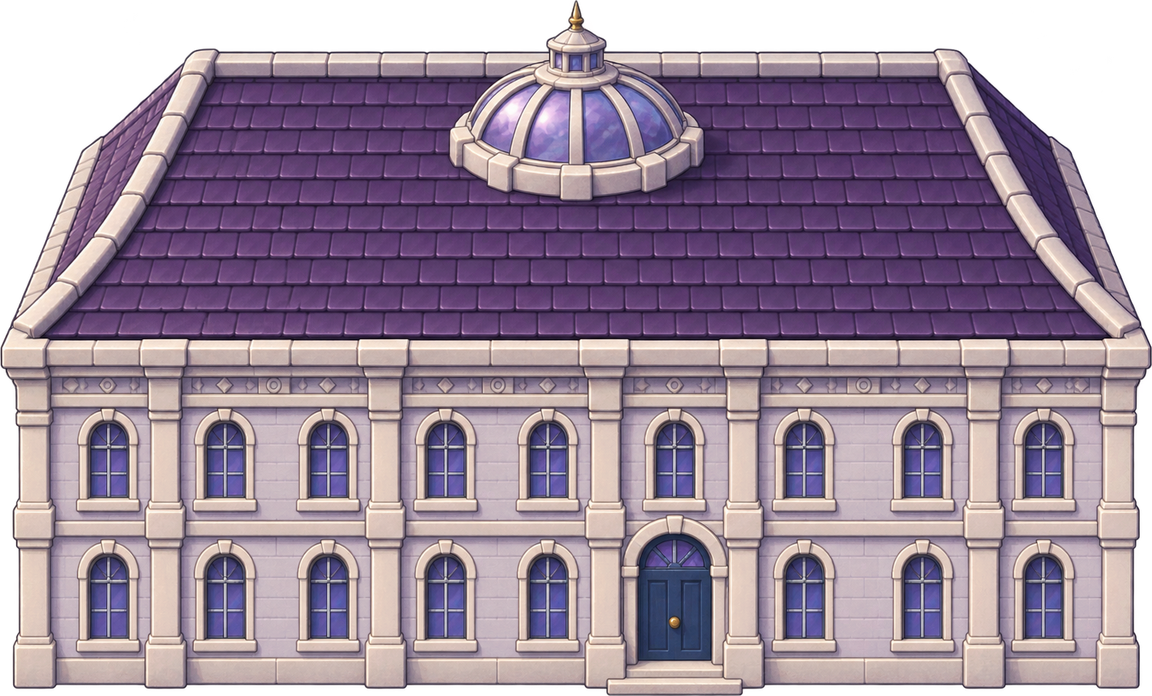
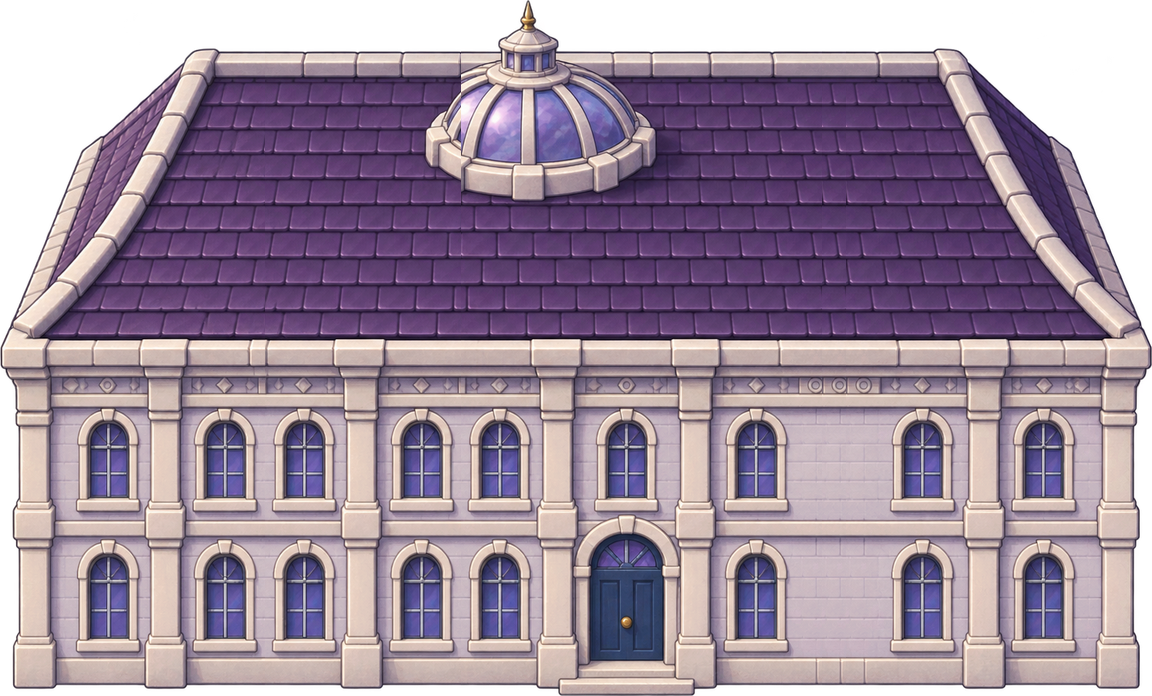
DAF.3 : porte de l'Arène de Morgane recalée sur sa case (préparation reproductible), planches refaites

diff --git a/tools/art/daf3.py b/tools/art/daf3.py
@@ -539,6 +539,29 @@ CORRECTIONS: dict[tuple[str, int], str] = {}
 ## Révision retenue par asset (défaut r1).
 RETENUES: dict[str, int] = {}
 
+## Recalage de la porte après préparation (colonnes de pixels de l'image finale) : bandes de mur
+## retirées et bandes dupliquées (début, largeur), pour amener la porte peinte sur sa case sans
+## toucher aux bords. Arène : porte peinte centrée en x 672 au lieu de 624 (7e colonne) ;
+## 2 × 24 px retirés entre les fenêtres de gauche, 2 × 24 px ajoutés entre celles de droite.
+RECALAGES: dict[str, tuple[list[tuple[int, int]], list[tuple[int, int]]]] = {
+	"bldg_arene_safrania_01": ([(265, 24), (485, 24)], [(846, 24), (846, 24)]),
+}
+
+
+def _recaler(image: Image.Image, asset: str) -> Image.Image:
+	if asset not in RECALAGES:
+		return image
+	import numpy as np
+	retirees, ajoutees = RECALAGES[asset]
+	enlever = {x for debut, largeur in retirees for x in range(debut, debut + largeur)}
+	colonnes = [x for x in range(image.width) if x not in enlever]
+	for debut, largeur in sorted(ajoutees, reverse=True):
+		i = colonnes.index(debut)
+		colonnes = colonnes[:i] + list(range(debut, debut + largeur)) + colonnes[i:]
+	if len(colonnes) != image.width:
+		raise SystemExit(f"{asset} : recalage {len(colonnes)} ≠ {image.width} colonnes")
+	return Image.fromarray(np.asarray(image)[:, colonnes])
+
 
 def ecrire_prompts() -> None:
 	PROMPTS.mkdir(parents=True, exist_ok=True)
@@ -621,6 +644,7 @@ def preparer_facades(seulement: set[str] | None = None) -> None:
 			continue
 		attendue = _taille(asset)
 		image = preparer._silhouette(Image.open(source).convert("RGBA")).resize(attendue, Image.LANCZOS)
+		image = _recaler(image, asset)
 		_ecrire_avec_ombres(image, asset, catalogue, manifest)
 		faites[asset] = image
 		print(f"{asset} : {image.size} ← {source.name}")

diff --git a/docs/design/fiches-assets/daf-3/fiche.md b/docs/design/fiches-assets/daf-3/fiche.md
@@ -70,8 +70,10 @@ Enveloppes provisoires retirées (`ph_silph_co_*`, `ph_silph_door_*`, `ph_saffro
   moquette se voit entre deux bureaux ; ils restent bien lisibles comme obstacles.
 - **Murs minces verticaux** (couloirs de l'Arène de Morgane, labyrinthe de l'Arène de Jadielle) :
   rendus comme à la Tour et au repaire (bords latéraux et masse sombre au milieu).
-- **Porte de l'Arène de Morgane** : peinte un peu à droite du milieu, sur la 7e colonne comme le
-  provisoire ; à vérifier sur le téléphone.
+- **Porte de l'Arène de Morgane** : peinte une demi-case trop à droite par Codex ; recalée à la
+  préparation (`RECALAGES` de `daf3.py` : 2 × 24 px de mur retirés à gauche, 2 × 24 px ajoutés entre
+  les fenêtres de droite, d'où une travée de droite un peu plus large). Les autres portes tombent sur
+  leur case (contrôle tracé sur les images).
 
 ## Hors de ce lot
 
